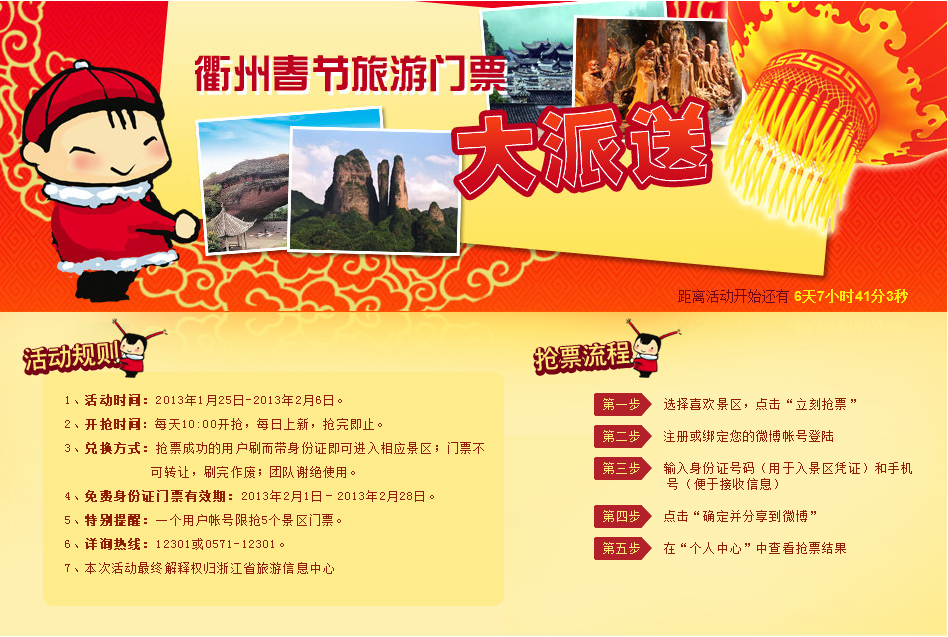
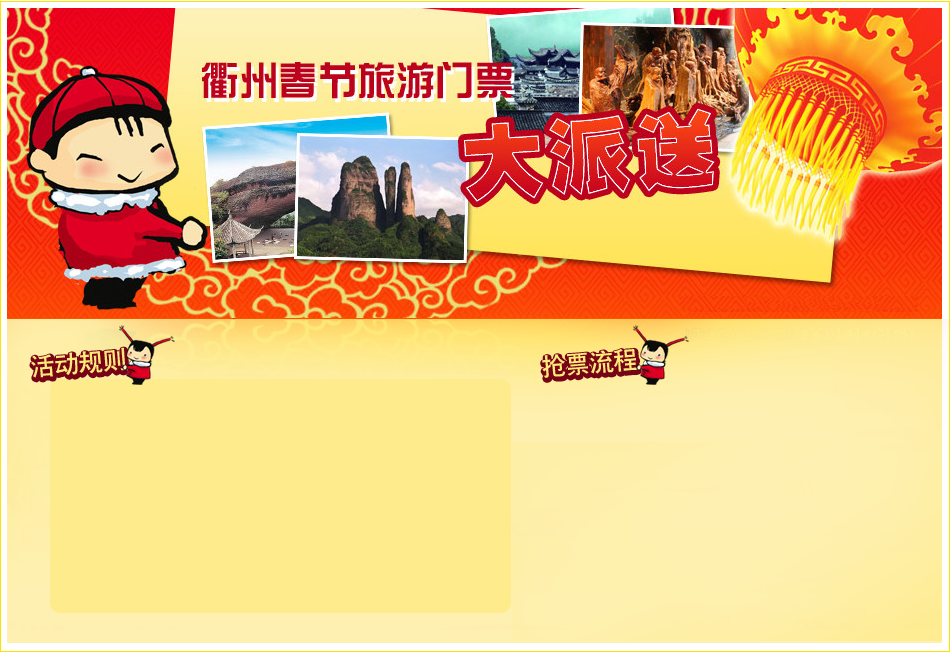
样式修改

Changed region(s): [[0.0, 0.0, 1.0, 1.0], [0.5506, 0.4772, 0.9483, 0.8948]]

diff --git a/WEB/theme/default/css/default.css b/WEB/theme/default/css/default.css
@@ -198,30 +198,34 @@ div:246
     float: right;
     margin-right: 5px;
     margin-top:5px;
-    background:url("/theme/default/image/20130116/linkOrder.jpg");
-    background:url("/theme/default/image/20130116/linkOrder_hover.jpg");
+    background:url("/theme/default/image/20130116/btnQuickBookBg.jpg");
+    background:url("/theme/default/image/20130116/btnQuickBookBg_hover.jpg");
+    color:White !important;
+    text-align:center;
+    line-height:22px;
+    letter-spacing:4px;
+    text-decoration:none;
 }
 .linkorder,.linkorder:link,.linkorder:active,.linkorder:visited
 {
     display:block;
     width:60px;
-    height:22px;
-    background:url("/theme/default/image/20130116/linkOrder.jpg");
+    height:20px;
+    background:url("/theme/default/image/20130116/btnQuickBookBg.jpg");
+    background-repeat:repeat;
+    border:1px solid #E83608;
 }
 .linkorder:hover
 {
     display:block;
     width:60px;
-    height:22px;
-    background:url("/theme/default/image/20130116/linkOrder_hover.jpg");
+    height:20px;
+    background:url("/theme/default/image/20130116/btnQuickBookBg_hover.jpg");
+    background-repeat:repeat;
+    border:1px solid #E83608;
+    text-decoration:none;
 }
-.linkorder:active
-{
-    display:block;
-    width:60px;
-    height:22px;
-    background:url("/theme/default/image/20130116/linkOrder_hover.jpg");
-}
+
 /*
  图片切换
 */

diff --git a/WEB/theme/default/css/Show.css b/WEB/theme/default/css/Show.css
@@ -636,12 +636,12 @@
 }
 #qz
 {
-    width:950px;
+    width:951px;
     height:643px;
-    border:1px solid #FDE400;
-    background:url("/theme/default/image/newversion/bottombg.png");
+    background:url("/theme/default/image/20130116/quzhouBg.png") no-repeat;
     position:relative;
-    
+    padding-bottom:7px;
+    border-bottom:1px solid #FDE400;
 }
 #qz a
 {
@@ -656,4 +656,39 @@
 #qz a:hover
 {
     background:url("/theme/default/image/20130116/btnQp_hover.png");
+}
+#hdgz
+{
+    position:absolute;
+    top:400px;
+    left:60px;
+    color:#901C03;
+    letter-spacing:1px;
+}
+#hdgz span
+{
+    font-weight:bold;
+}
+#hdgz ul,#qplc ul
+{
+    list-style-type:none;
+}
+#hdgz ul li,#qplc ul li
+{
+    margin-bottom:5px;
+}
+#qplc
+{
+    position:absolute;
+    top:400px;
+    left:560px;
+    color:#901C03;
+}
+#qplc .step
+{
+    height:23px;
+    display:block;
+    background:url("/theme/default/image/20130116/icon_1.png") no-repeat;
+    line-height:23px;
+    padding-left:8px;
 }

diff --git a/WEB/theme/default/css/checkout.css b/WEB/theme/default/css/checkout.css
@@ -176,26 +176,26 @@
 .btntkok
 {
     cursor:pointer;
-    border:1px solid #E3007A;
-    background:url("/theme/default/image/newversion/popokbg1.png");
+    border:1px solid #E83608;
+    background:url("/theme/default/image/20130116/btnOKBg.png");
     background-repeat:repeat-x;
     width:120px;
     height:24px;
     display:block;
     color:White;
     font-weight:bold;
-    line-height:24px;
+    line-height:26px;
     margin:0px auto;
 }
 .btntkok:hover
 {
     cursor:pointer;
-    border:1px solid #E3007A;
-    background:url("/theme/default/image/newversion/popokbg2.png");
+    border:1px solid #E83608;
+    background:url("/theme/default/image/20130116/btnOKBg_hover.png");
     width:120px;
     height:24px;
     display:block;
     color:White;
     font-weight:bold;
-    line-height:24px;
+    line-height:26px;
 }

diff --git a/WEB/theme/default/css/20130116/MasterPage.css b/WEB/theme/default/css/20130116/MasterPage.css
@@ -540,10 +540,10 @@ background-color:#fff !important;
 
 .popok,.popok:link,.popok:active,.popok:visited
 {
-    border:1px solid #E3007A;
+    border:1px solid #E8360F;
     font-weight:bold;
     color:White;
-    background:url("/theme/default/image/newversion/popokbg1.png");
+    background:url("/theme/default/image/20130116/btnOKBg.png");
     height:24px !important;
     background-repeat:repeat-x;
     width:90px;
@@ -553,11 +553,11 @@ background-color:#fff !important;
 }
 .popok:hover
 {
-    border:1px solid #E3007A;
+    border:1px solid #E8360F;
     font-weight:bold;
     color:White;
     margin-bottom:10px;
-    background:url("/theme/default/image/newversion/popokbg2.png");
+    background:url("/theme/default/image/20130116/btnOKBg_hover.png");
 }
 .emptypop
 {

diff --git a/WEB/theme/default/css/MasterPage.css b/WEB/theme/default/css/MasterPage.css
@@ -498,10 +498,10 @@ background-color:#fff !important;
 
 .popok,.popok:link,.popok:active,.popok:visited
 {
-    border:1px solid #E3007A;
+    border:1px solid #E8360F;
     font-weight:bold;
     color:White;
-    background:url("/theme/default/image/newversion/popokbg1.png");
+    background-color:#E8360F;
     height:24px !important;
     background-repeat:repeat-x;
     width:90px;
@@ -511,11 +511,11 @@ background-color:#fff !important;
 }
 .popok:hover
 {
-    border:1px solid #E3007A;
+    border:1px solid #E8360F;
     font-weight:bold;
     color:White;
     margin-bottom:10px;
-    background:url("/theme/default/image/newversion/popokbg2.png");
+    background-color:#E8360F;
 }
 .emptypop
 {

diff --git a/WEB/theme/default/css/scenic.css b/WEB/theme/default/css/scenic.css
@@ -630,7 +630,7 @@
 {
     display:block;
     margin:20px 0px 0px 30px;
-    color:#EC6B9E;
+    color:#E8360F;
 }
 .themespan span
 {
@@ -689,7 +689,7 @@
 .btnputcart
 {
     border:0px none;
-    background:url("/theme/default/image/newversion/putcartbg_1.gif");
+    background:url("/theme/default/image/20130116/btnQuickBookBg.jpg");
     background-repeat:repeat;
     width:80px;
     height:20px;
@@ -705,7 +705,7 @@
 .btnputcart:hover
 {
     border:0px none;
-    background:url("/theme/default/image/newversion/putcartbg_2.gif");
+    background:url("/theme/default/image/20130116/btnQuickBookBg_hover.jpg");
     background-repeat:repeat;
     width:80px;
     height:20px;

diff --git a/WEB/Scripts/Disticket.js b/WEB/Scripts/Disticket.js
@@ -2,7 +2,7 @@
     $(".tbvisitedsc tr td").each(function () {
         $(this).mouseover(function () {
             $(this).find("img").attr("src", "/theme/default/image/newversion/jt1.gif");
-            $(this).find("a").css("color", "#EC6B9E");
+            $(this).find("a").css("color", "#E8360F");
         });
         $(this).mouseout(function () {
             $(this).find("img").attr("src", "/theme/default/image/newversion/jt2.gif");
